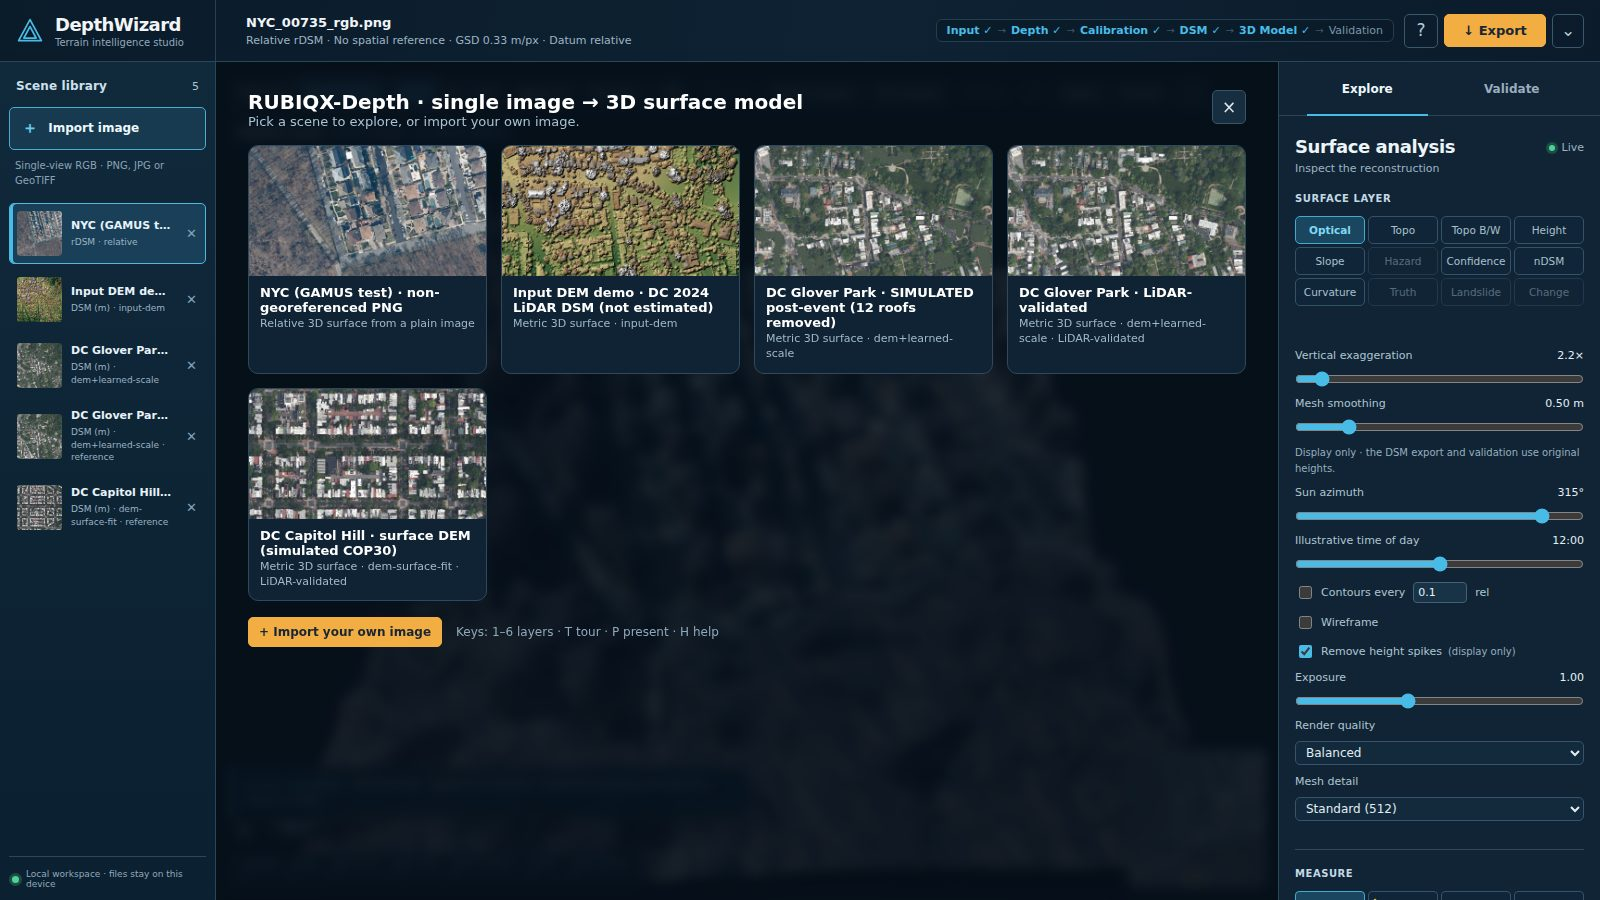
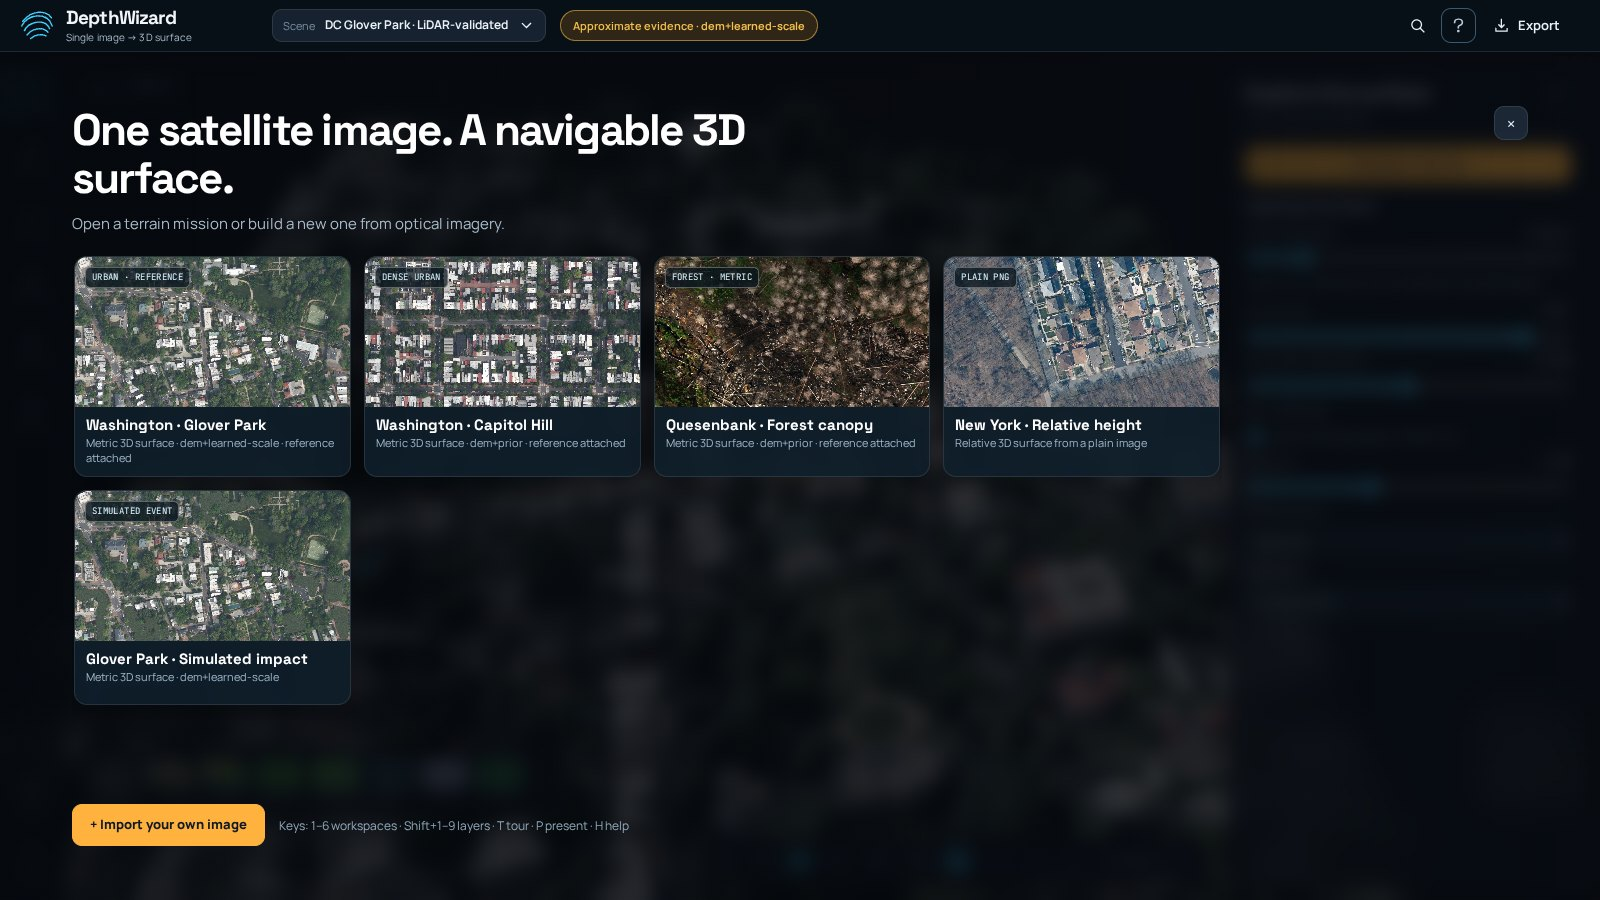
Update README screenshots for the new DepthWizard UI
Replace gallery images with the redesigned interface (Glover Park scene):
3D city, buildings inspector, topo, hazard, flood & response,
Model Compare and demo gallery; add Validate panel screenshot and
refresh the gallery captions.

diff --git a/README.md b/README.md
@@ -3,7 +3,7 @@
 **One ordinary satellite image → a calibrated 3D surface model and a disaster-ready digital twin.**
 Smart India Hackathon 2026 · Problem Statement 26175 (ISRO / SAC) · Team RUBIQX
 
-![3D city from a single image, presentation mode](docs/images/present.jpg)
+![DepthWizard: 3D city from a single satellite image](docs/images/present.jpg)
 
 | Reference-held-out DC LiDAR check (2 scenes) | Model fine-tuned on aerial LiDAR | Runs offline |
 |---|---|---|
@@ -31,13 +31,15 @@ The first visit opens a gallery of demo scenes. Put the fine-tuned checkpoint in
 
 ## Gallery
 
-| Textured 3D city (LoD1 buildings on bare ground) | Topo: hypsometric tint + index contours + hillshade |
+| **Buildings** – 131 fitted buildings with height, storeys, volume, solar; one known height recalibrates the city | **Topo** – hypsometric tint + index contours + hillshade |
 |---|---|
-| ![city](docs/images/city.jpg) | ![topo](docs/images/topo.jpg) |
-| **Slope hazard** (true slope, 0–30° / 30–45° / >45°) | **Connected flood** – water, depth colour, buildings affected |
+| ![buildings](docs/images/city.jpg) | ![topo](docs/images/topo.jpg) |
+| **Slope hazard** (true slope, 0–30° / 30–45° / >45°) | **Flood & response** – connected flood, buildings and people exposed, mission planning |
 | ![hazard](docs/images/hazard.jpg) | ![flood](docs/images/flood.jpg) |
-| **DEM vs our DSM swipe** – what the AI adds to a 30 m DEM | **Demo gallery** – one click to an impressive view |
-| ![swipe](docs/images/swipe.jpg) | ![gallery](docs/images/gallery.jpg) |
+| **Model Compare** – pretrained Depth Anything V2 vs our GAMUS fine-tuned model, same image | **Validate** – blind LiDAR check: 38.5% lower RMSE than the input DEM |
+| ![swipe](docs/images/swipe.jpg) | ![validate](docs/images/validate.jpg) |
+| **Demo gallery** – one click to a ready scene | |
+| ![gallery](docs/images/gallery.jpg) | |
 
 ## How it works
 
